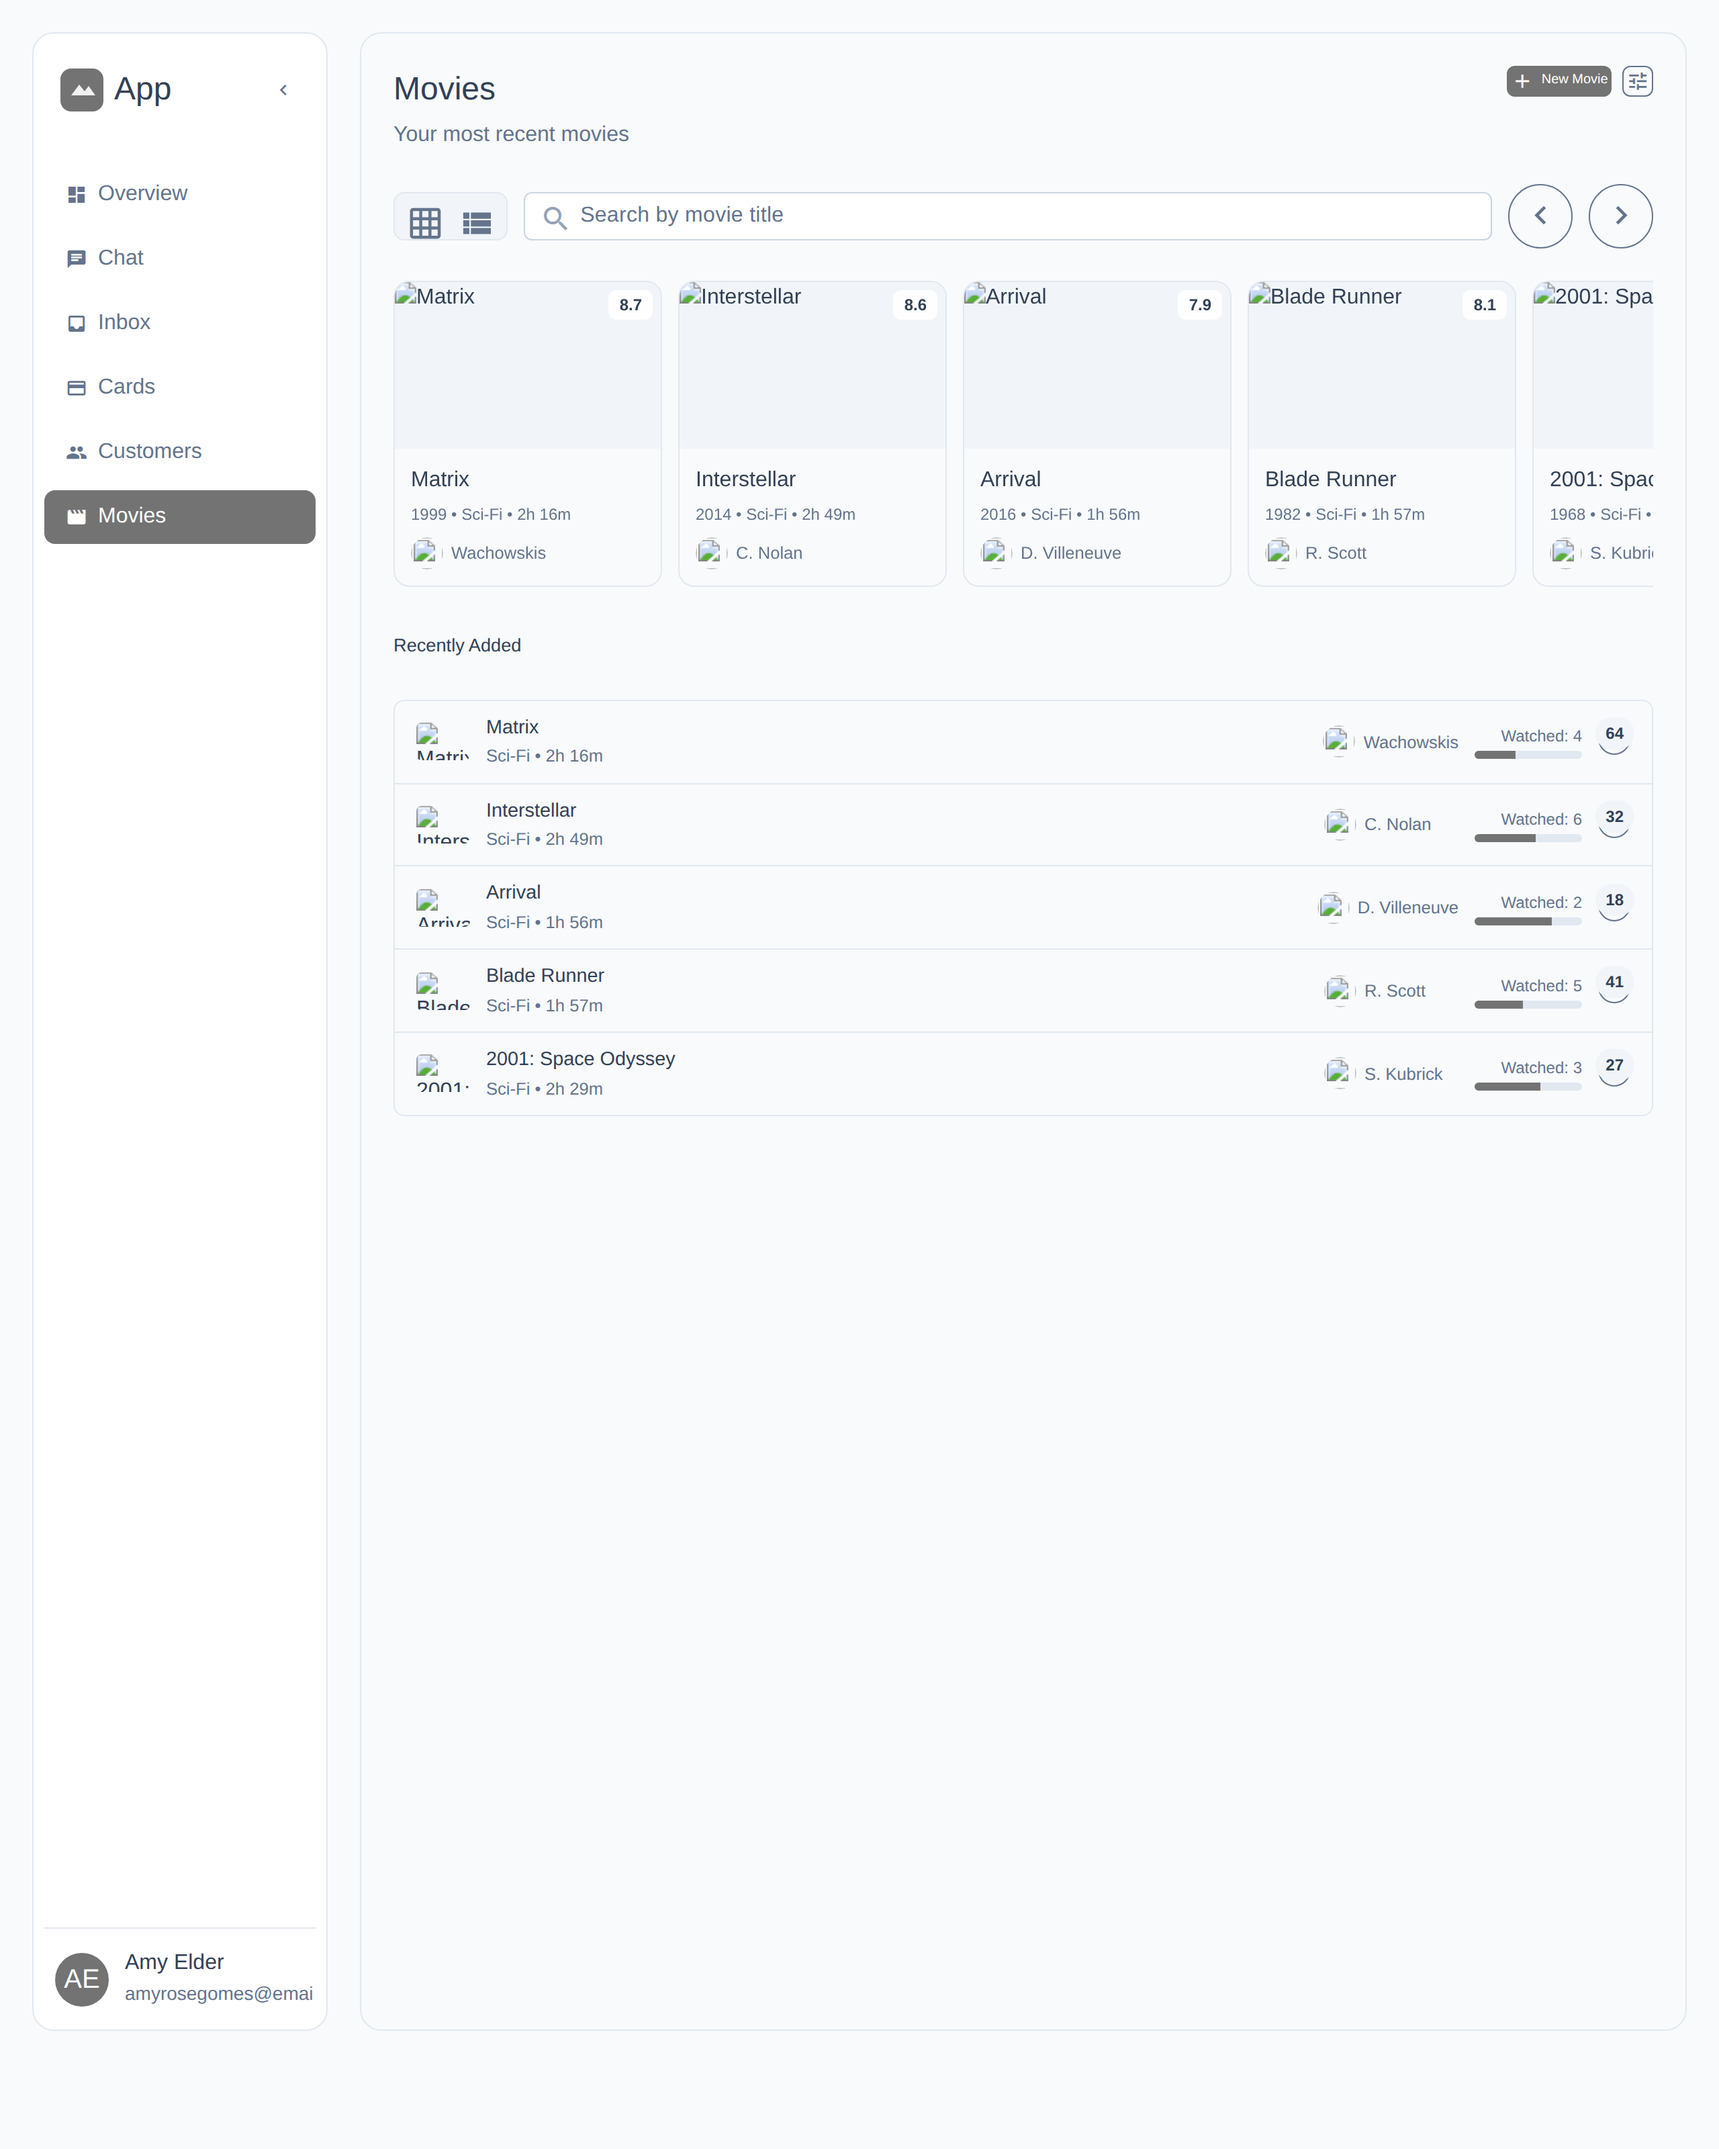
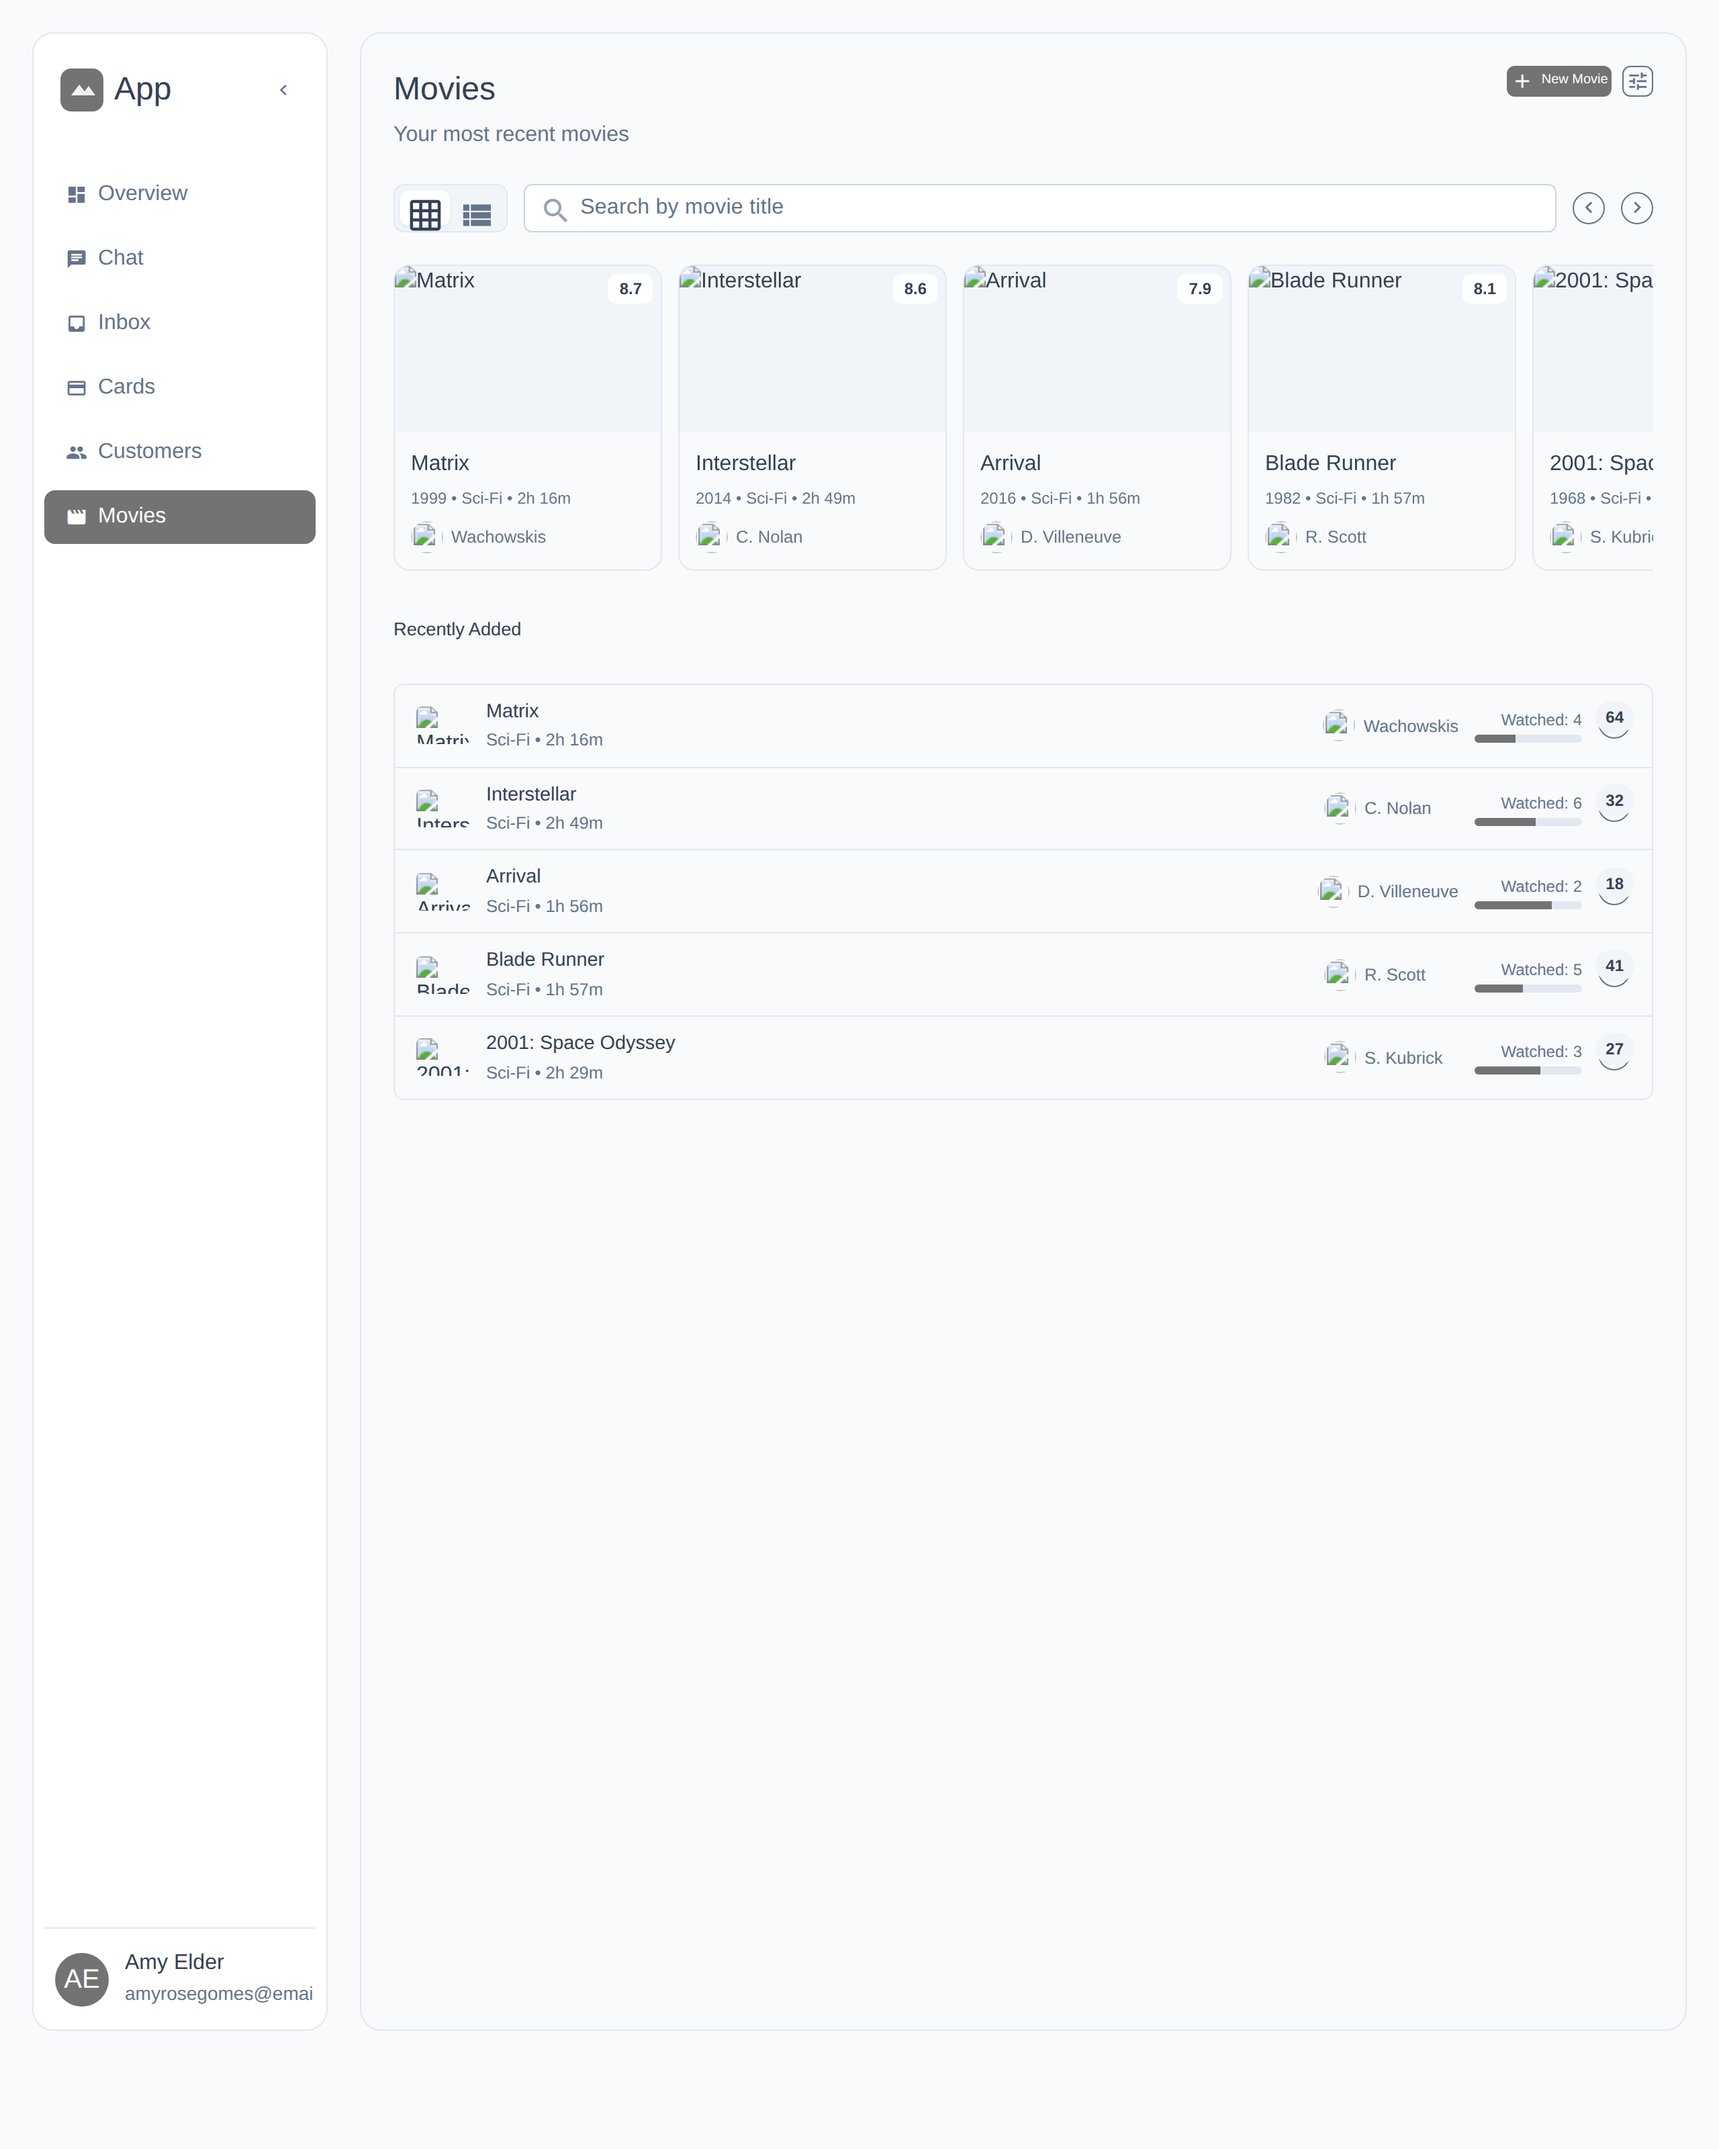
Fix dashboard Aura↔PrimeVue parity bugs (wallet align, SelectButton chip, carousel size)

diff --git a/playground/dashboard.css b/playground/dashboard.css
@@ -817,8 +817,13 @@ body {
   background: transparent !important;
 }
 /* Selected option: raised surface chip with primary-coloured text — overrides
-   the toggle-color="primary" solid fill that Quasar applies to the active btn. */
+   the toggle-color="primary" solid fill that Quasar applies to the active btn.
+   Standard (unelevated) toggles tag the active button `bg-primary`; `outline`
+   toggles (Cards Follow/Message, payment-type, donate amounts, Movies view
+   mode) instead tag it `text-primary`, so both selectors are needed for the
+   chip to show on every SelectButton variant. */
 .q-btn-toggle .q-btn.bg-primary,
+.q-btn-toggle .q-btn.text-primary,
 .q-btn-toggle .q-btn[class*="text-white"] {
   background: var(--p-surface-0, #ffffff) !important;
   color: var(--p-text-color, #1e293b) !important;

diff --git a/src/components/MeterGroup.vue b/src/components/MeterGroup.vue
@@ -21,8 +21,13 @@
 
     <slot name="end" :value="value" :total-percent="totalPercent" />
 
-    <ol v-if="$slots.label || showLabels" class="qpv-metergroup__labels">
-      <slot name="label" :value="value">
+    <slot
+      v-if="$slots.label || showLabels"
+      name="label"
+      :value="value"
+      :total-percent="totalPercent"
+    >
+      <ol class="qpv-metergroup__labels">
         <li
           v-for="(item, index) in value"
           :key="index"
@@ -35,8 +40,8 @@
           <q-icon v-if="item.icon" :name="item.icon" class="qpv-metergroup__label-icon" />
           <span class="qpv-metergroup__label-text">{{ item.label }}</span>
         </li>
-      </slot>
-    </ol>
+      </ol>
+    </slot>
   </div>
 </template>
 

diff --git a/playground/pages/movies.quasar.js b/playground/pages/movies.quasar.js
@@ -57,8 +57,8 @@
           <q-input v-model="search" outlined dense placeholder="Search by movie title" style="flex:1">
             <template #prepend><q-icon name="search" /></template>
           </q-input>
-          <q-btn icon="chevron_left" round outline color="grey-7" @click="scrollCarousel(-1)" />
-          <q-btn icon="chevron_right" round outline color="grey-7" @click="scrollCarousel(1)" />
+          <q-btn icon="chevron_left" round outline dense color="grey-7" size="sm" @click="scrollCarousel(-1)" />
+          <q-btn icon="chevron_right" round outline dense color="grey-7" size="sm" @click="scrollCarousel(1)" />
         </div>
 
         <!-- Carousel track -->

diff --git a/docs/DASHBOARD-DIFF.md b/docs/DASHBOARD-DIFF.md
@@ -35,10 +35,17 @@ Status legend: ✅ matches · 🔧 fixed in this pass · ⚠ partial / minor 
 ## Latest review pass — full per-page image analysis
 
 A fresh screenshot of **all six pages** (captured individually, not just the
-Overview landing) surfaced three genuine theme bugs that the previous pass had
-only partially closed. All three are now fixed and re-verified from the
-regenerated per-page screenshots.
+Overview landing) surfaced three genuine bugs that earlier passes had missed.
+All three are now fixed and re-verified from the regenerated per-page
+screenshots.
 
+| Fix | Where | What changed |
+|-----|-------|--------------|
+| Wallet values not flush-right (OV9) | `src/components/MeterGroup.vue` | The Overview *My Wallet* values sat mid-card instead of aligned to the right edge as in PrimeVue. The Aura `MeterGroup` nested the `label` slot **inside** the `<ol class="qpv-metergroup__labels">` flex-row list, so the custom full-width label layout was constrained to its content width. PrimeVue's `label` slot **replaces** the `<ol>`, making the slot a direct (stretching) flex child of the column container. Restructured the template so the `label` slot wraps the default `<ol>` and replaces it when provided — the wallet rows now span the card and the values align right. |
+| SelectButton `outline` selected chip missing (CA1/CA2/CA6, MO1) | `playground/dashboard.css` | The Cards Follow/Message, payment-type and donate-amount toggles and the Movies grid/list switch use `q-btn-toggle … outline`. Quasar tags an `outline` toggle's active button `text-primary` (not `bg-primary` as standard/unelevated toggles do), so the raised surface-0 SelectButton chip never applied and every option looked unselected. Added `.q-btn-toggle .q-btn.text-primary` to the selected-chip rule so the active option now renders as a raised chip on all SelectButton variants. |
+| Movies carousel nav button size (MO3) | `playground/pages/movies.quasar.js` | The carousel `‹ ›` buttons omitted a size, rendering noticeably larger than PrimeVue's `size="small"` rounded buttons. Added `dense size="sm"` to match. |
+
+### Previous pass
 | Fix | Where | What changed |
 |-----|-------|--------------|
 | Dense toggle crescent (CH5/CA8) | `src/css/components/_toggle.scss` | The Chat (Notification/Sound/Save) and Cards (Switch to Dark) switches use `q-toggle … dense`. Quasar's `.q-toggle--dense` rules (higher specificity) reset the inner track to `.8em×.5em` and pin the thumb to top-left, so the Aura-sized `0.667em` handle overhung the collapsed track as a **dark crescent**. Added `.q-toggle--dense` overrides that re-apply the Aura track + thumb geometry, so a dense `q-toggle` now renders as a proper Aura switch. |
@@ -84,7 +91,7 @@ regenerated per-page screenshots.
 | OV6 | Table pagination | `q-table` "Records per page / 1-5 of 10 / ‹ ›" | `DataTable` "‹ 1 2 › Showing 1 to 5 of 10 entries" | ⚠ Quasar's built-in paginator (rows-per-page select) differs from PrimeVue's numbered paginator. |
 | OV7 | Buy/Sell tag | `q-badge color="positive/negative"` | `Tag severity` | 🔧 Fixed — soft tinted pill (green/red) instead of solid fill. |
 | OV8 | Overflow menu | `q-btn` + `q-menu > q-list` | `Button text` + `Menu popup` | ⚠ Material popover vs compact floating list. |
-| OV9 | My Wallet MeterGroup | aura `MeterGroup` | `MeterGroup` | ✅ Component parity. |
+| OV9 | My Wallet MeterGroup | aura `MeterGroup` | `MeterGroup` | 🔧 Fixed — the custom `label` slot now replaces the `<ol>` (as in PrimeVue) instead of nesting inside its flex-row list, so the wallet rows span the full card and the values align flush-right. |
 | OV10 | Show All button | `q-btn outline` | `Button variant="outlined"` | ✅ |
 | OV11 | Transactions avatars | `q-avatar size="32px"` | `Avatar` | ✅ Both render at 32 px with identical inline colour/font styles. |
 
@@ -126,12 +133,12 @@ regenerated per-page screenshots.
 
 | ID | Area | Quasar | PrimeVue | Status |
 |----|------|--------|----------|--------|
-| CA1 | Follow / Message | `q-btn-toggle spread` | `SelectButton` | 🔧 Fixed by the SelectButton pass; the `outline`-variant per-button border is now hidden so it matches the single-pill SelectButton. |
-| CA2 | Payment-type toggle | `q-btn-toggle` icon-only | `SelectButton #option` | 🔧 Fixed by the SelectButton pass (outline border removed). |
+| CA1 | Follow / Message | `q-btn-toggle spread` | `SelectButton` | 🔧 Fixed — `outline` border hidden **and** the selected option now renders as a raised chip (the active `outline` button is tagged `text-primary`, now covered by the selected-chip rule). |
+| CA2 | Payment-type toggle | `q-btn-toggle` icon-only | `SelectButton #option` | 🔧 Fixed — outline border removed and the selected icon now shows the raised chip (`text-primary` active button). |
 | CA3 | OTP input | 4 × `q-input` | `InputOtp :length="4"` | ⚠ Manual workaround; visually close, no built-in paste/auto-advance semantics. |
 | CA4 | Slider | `q-slider` | `Slider` | ✅ Aura track/thumb tokens. |
 | CA5 | Custom Amount | `q-input type=number` | `InputNumber showButtons` | ⛔ `q-input` has no +/- spinner buttons. |
-| CA6 | Donate amount toggle | `q-btn-toggle spread` | `SelectButton` | 🔧 Fixed by the SelectButton pass (outline border removed). |
+| CA6 | Donate amount toggle | `q-btn-toggle spread` | `SelectButton` | 🔧 Fixed — outline border removed and the selected amount now shows the raised chip (`text-primary` active button). |
 | CA7 | Radio (delivery) | `q-radio` | `RadioButton` | 🔧 Fixed — removed the white `q-radio__check` colour override in `_radio.scss`; inner dot now inherits primary colour and is clearly visible against a light background. |
 | CA8 | Dark-mode toggle | `q-toggle` | `ToggleSwitch` | 🔧 Fixed — the dense toggle rendered as a crescent; `_toggle.scss` now re-applies the Aura geometry to `.q-toggle--dense` (in addition to the earlier `.q-toggle__thumb:before { display:none }`). |
 | CA9 | Divider | `q-separator` | `Divider` | ✅ |
@@ -159,9 +166,9 @@ regenerated per-page screenshots.
 
 | ID | Area | Quasar | PrimeVue | Status |
 |----|------|--------|----------|--------|
-| MO1 | View-mode toggle | `q-btn-toggle` icon-only | `SelectButton` | 🔧 Fixed by the SelectButton pass. |
+| MO1 | View-mode toggle | `q-btn-toggle` icon-only | `SelectButton` | 🔧 Fixed — the `outline` toggle's active button is tagged `text-primary`, so the selected raised chip now shows (the earlier pass only covered `bg-primary`). |
 | MO2 | Search | `q-input outlined dense` | `IconField` | ✅ |
-| MO3 | Carousel nav buttons | `q-btn round outline` | `Button rounded variant="outlined" size="small"` | ✅ |
+| MO3 | Carousel nav buttons | `q-btn round outline dense size="sm"` | `Button rounded variant="outlined" size="small"` | 🔧 Fixed — added `dense size="sm"` so the nav buttons match PrimeVue's small rounded buttons (were rendering larger). |
 | MO4 | Row ProgressBar | `q-linear-progress` | `ProgressBar` | ✅ |
 | MO5 | Director avatar | `q-avatar size="24px"` | `Avatar size="small"` | 🌐 CDN image (offline fallback). |
 | MO6 | Watched count badge | `q-badge` floating | `OverlayBadge` over bookmark | 🔧 Fixed — neutral grey badge instead of red. |
